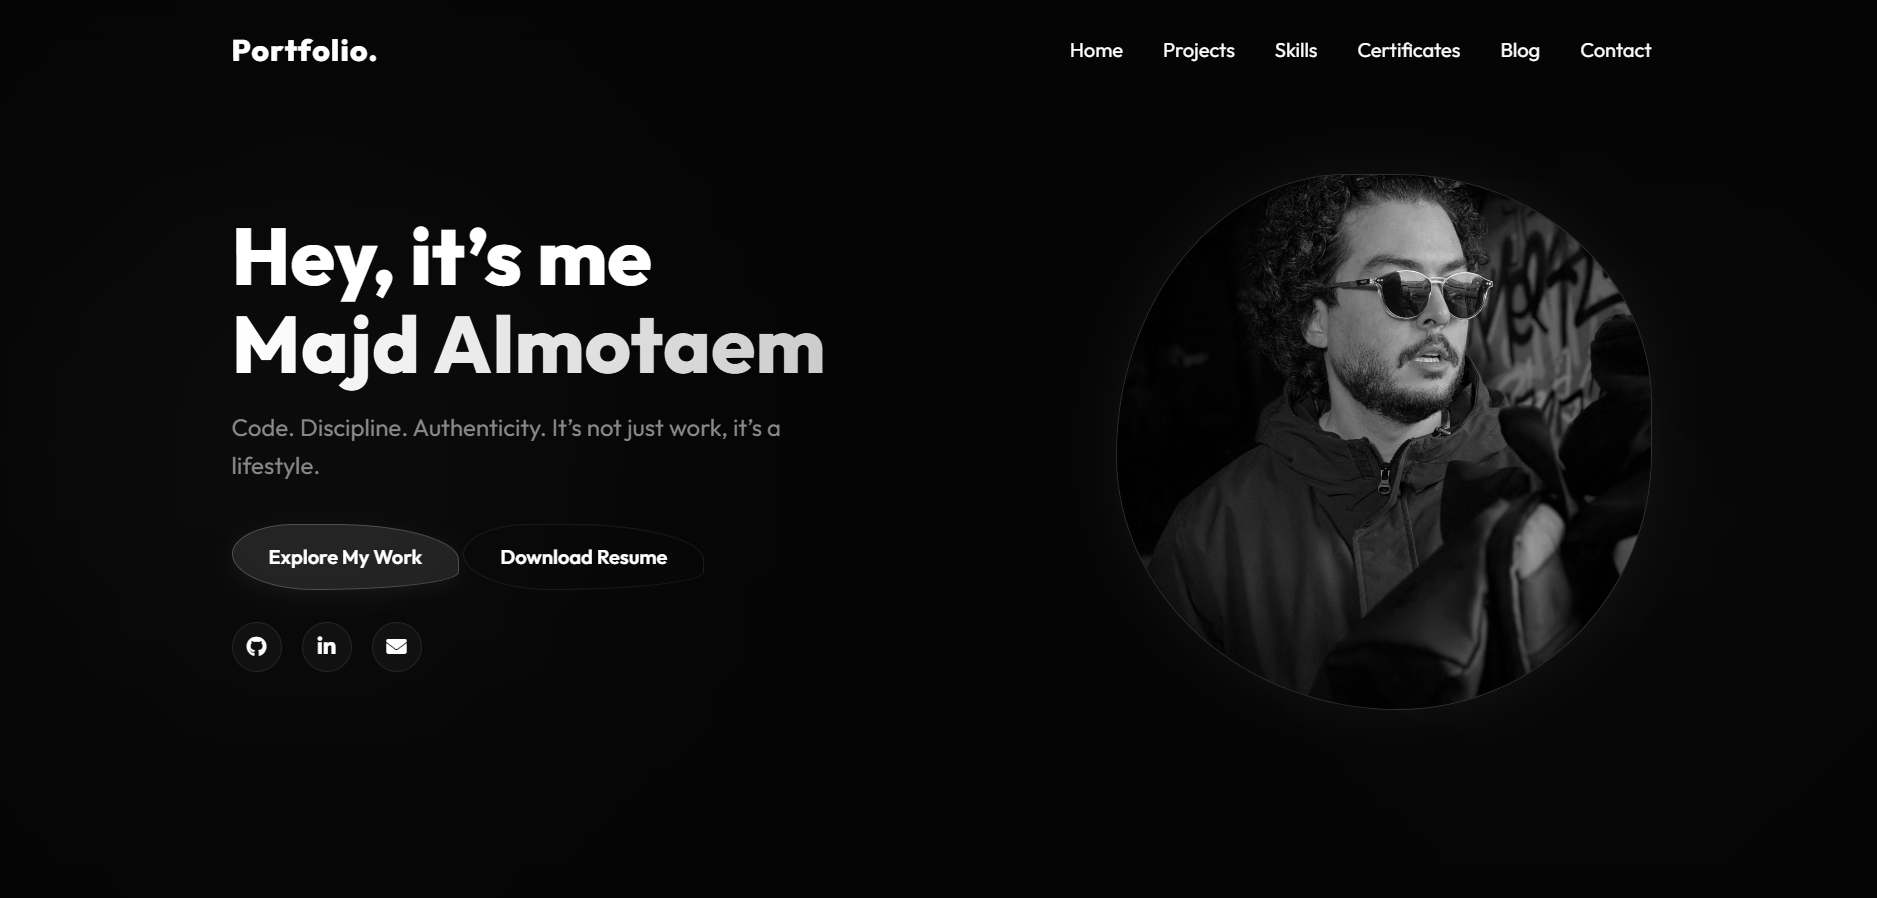
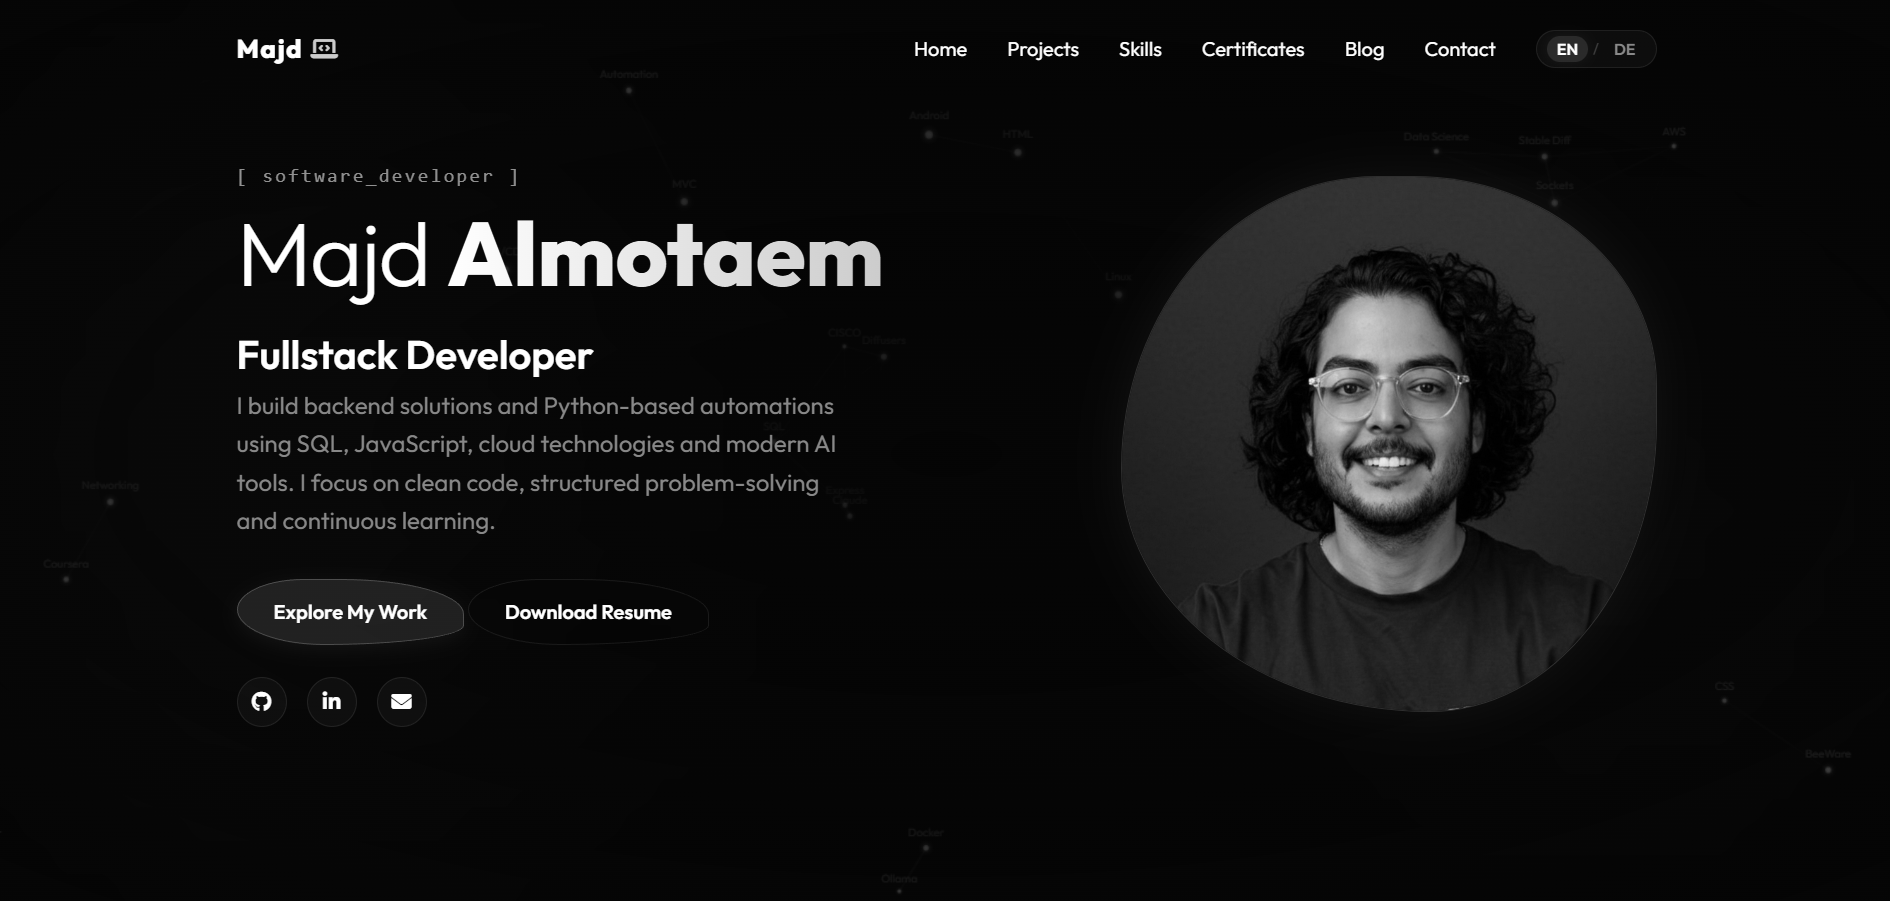
update image

diff --git a/index.html b/index.html
@@ -19,7 +19,8 @@
     <link rel="stylesheet" href="css/style.css">
 
     <!-- FontAwesome for Icons -->
-    <link rel="stylesheet" href="https://cdnjs.cloudflare.com/ajax/libs/font-awesome/6.4.0/css/all.min.css" media="print" onload="this.media='all'">
+    <link rel="stylesheet" href="https://cdnjs.cloudflare.com/ajax/libs/font-awesome/6.4.0/css/all.min.css"
+        media="print" onload="this.media='all'">
 
     <!-- Metadata for Social Sharing (Open Graph) -->
     <meta property="og:type" content="website" />
@@ -78,7 +79,7 @@
                 <div class="job-title" data-i18n="hero_title">Fullstack Developer</div>
             </div>
             <div class="hero-image-container">
-                <img src="assets/images/5447506338524108719_121.jpg" alt="Profile Picture" width="300" height="300" loading="eager">
+                <img src="assets/images/Heroimage.jpg" alt="Profile Picture" width="300" height="300" loading="eager">
             </div>
             <div class="hero-details">
                 <p data-i18n="hero_motto">I build backend solutions and Python-based automations using SQL, JavaScript,
